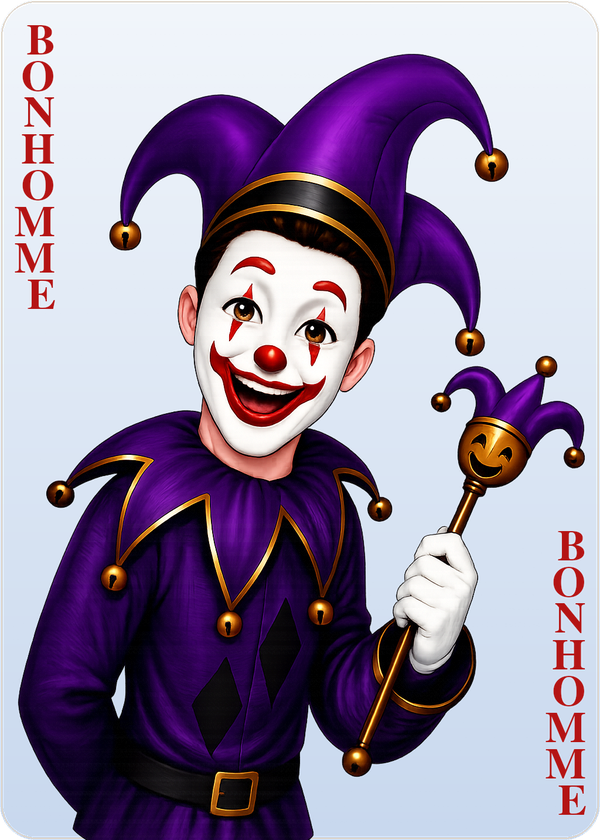
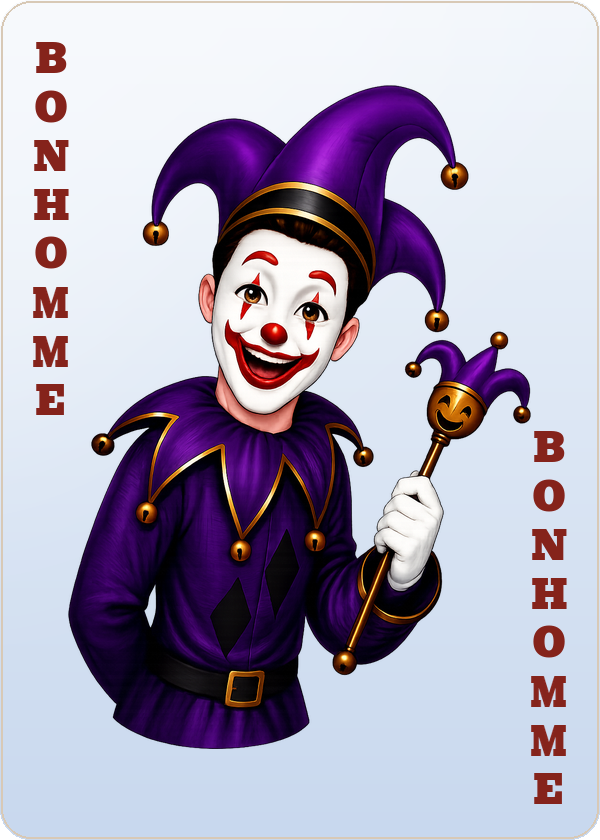
Switch card font to Bevan; update joker and bonhomme card images (#337)
- Load Bevan from Google Fonts in index.html
- styles.css: use Bevan for .card and .tbl-card-corner
- Updated joker-card.png and bonhomme-card.png

https://claude.ai/code/session_01Y6Rs6bbE5AbZ5v7aFoSQuQ

diff --git a/public/styles.css b/public/styles.css
@@ -271,7 +271,7 @@ body:has(.felt-table)::before{
   position:relative;z-index:1;
 }
 .tbl-card-corner{
-  position:absolute;font-size:9px;font-family:"Fraunces",serif;font-weight:700;line-height:1;
+  position:absolute;font-size:9px;font-family:"Bevan",serif;font-weight:400;line-height:1;
   color:#1a1a2e;z-index:1;
 }
 .tbl-card.red .tbl-card-corner{color:#8b1a1a}
@@ -1388,7 +1388,7 @@ label{display:block;font-size:12.5px;font-weight:600;color:var(--ink-soft);lette
     inset 0 0 0 1px rgba(150,110,60,.3);
   color:var(--suit-blk);
   transition:transform .34s cubic-bezier(.2,.85,.25,1), box-shadow .24s ease, filter .24s ease;
-  font-family:"Fraunces",serif;
+  font-family:"Bevan",serif;
   cursor:default;
 }
 .card.red{color:var(--suit-red)}
@@ -1402,7 +1402,7 @@ label{display:block;font-size:12.5px;font-weight:600;color:var(--ink-soft);lette
   object-fit:fill;display:block;pointer-events:none;
 }
 .card .corner{position:absolute;display:flex;flex-direction:column;align-items:center;line-height:.86;font-weight:700}
-.card .corner b{font-size:calc(var(--w)*.28);font-weight:700}
+.card .corner b{font-size:calc(var(--w)*.28);font-weight:400}
 .card .corner i{font-size:calc(var(--w)*.2);font-style:normal;margin-top:1px}
 .card .corner.tl{top:5px;left:6px}
 .card .corner.br{bottom:5px;right:6px;transform:rotate(180deg)}

diff --git a/public/index.html b/public/index.html
@@ -10,7 +10,7 @@
   <link rel="manifest" href="/manifest.json" />
   <link rel="preconnect" href="https://fonts.googleapis.com" />
   <link rel="preconnect" href="https://fonts.gstatic.com" crossorigin />
-  <link href="https://fonts.googleapis.com/css2?family=Fraunces:ital,opsz,wght@0,9..144,500;0,9..144,600;0,9..144,700;1,9..144,500&family=Hanken+Grotesk:wght@400;500;600;700&family=Montserrat:wght@700;800;900&family=Playfair+Display:wght@700;900&display=swap" rel="stylesheet" />
+  <link href="https://fonts.googleapis.com/css2?family=Fraunces:ital,opsz,wght@0,9..144,500;0,9..144,600;0,9..144,700;1,9..144,500&family=Hanken+Grotesk:wght@400;500;600;700&family=Montserrat:wght@700;800;900&family=Playfair+Display:wght@700;900&family=Bevan&display=swap" rel="stylesheet" />
   <link rel="stylesheet" href="/styles.css" />
 </head>
 <body>
